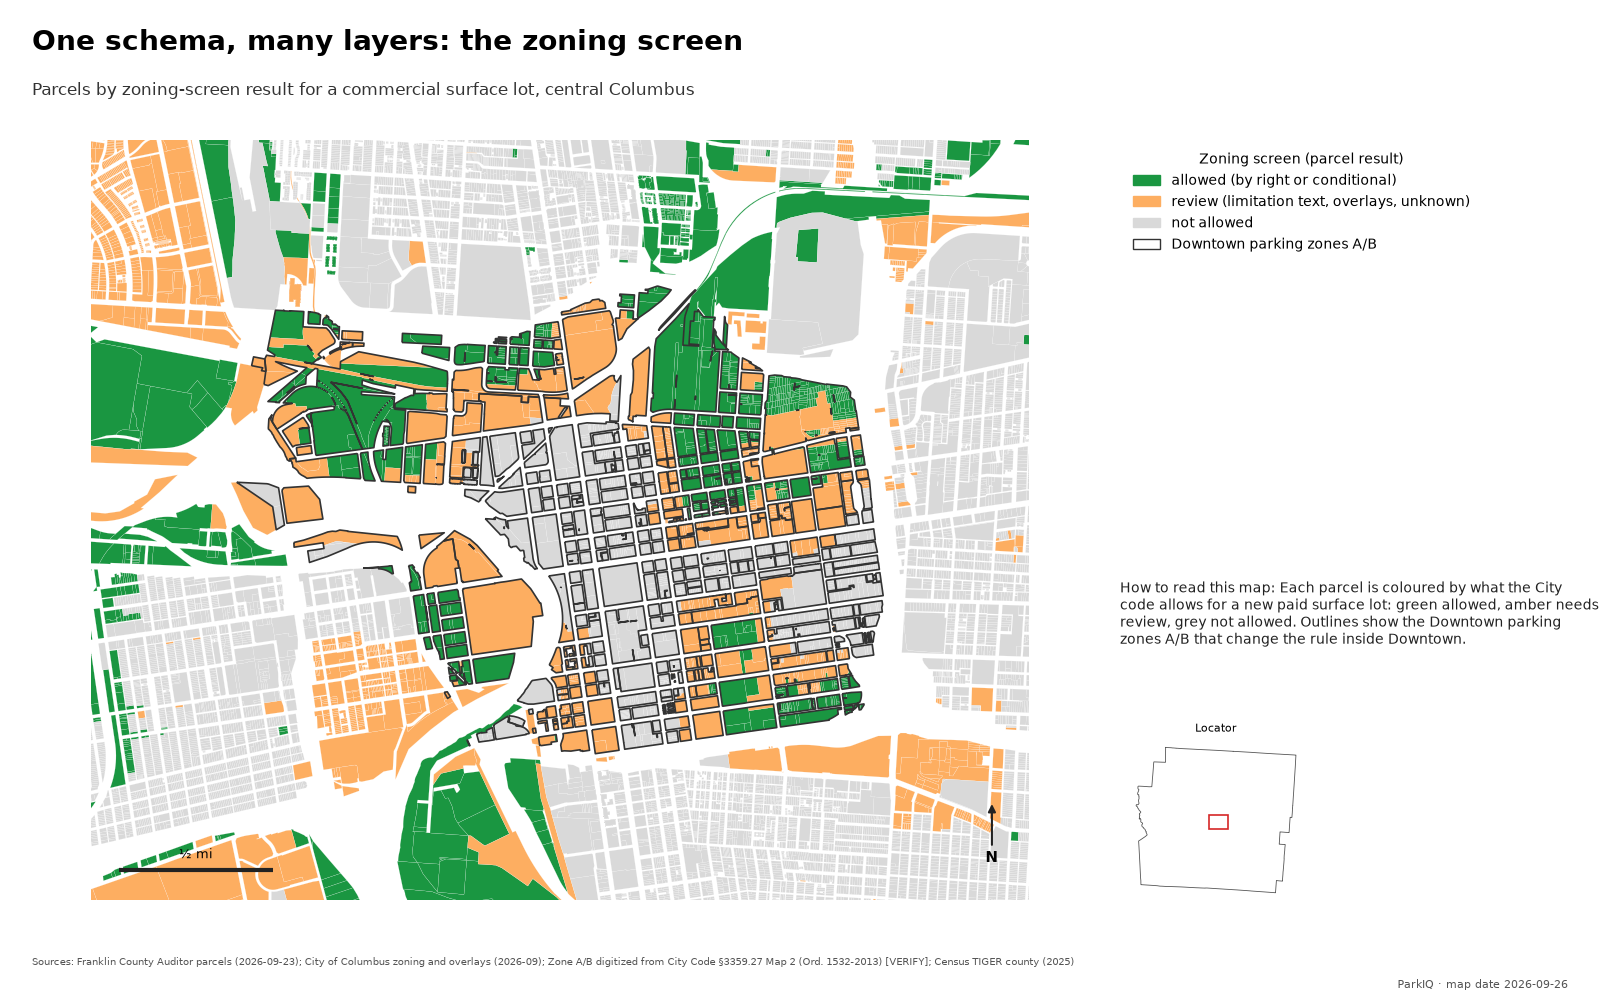
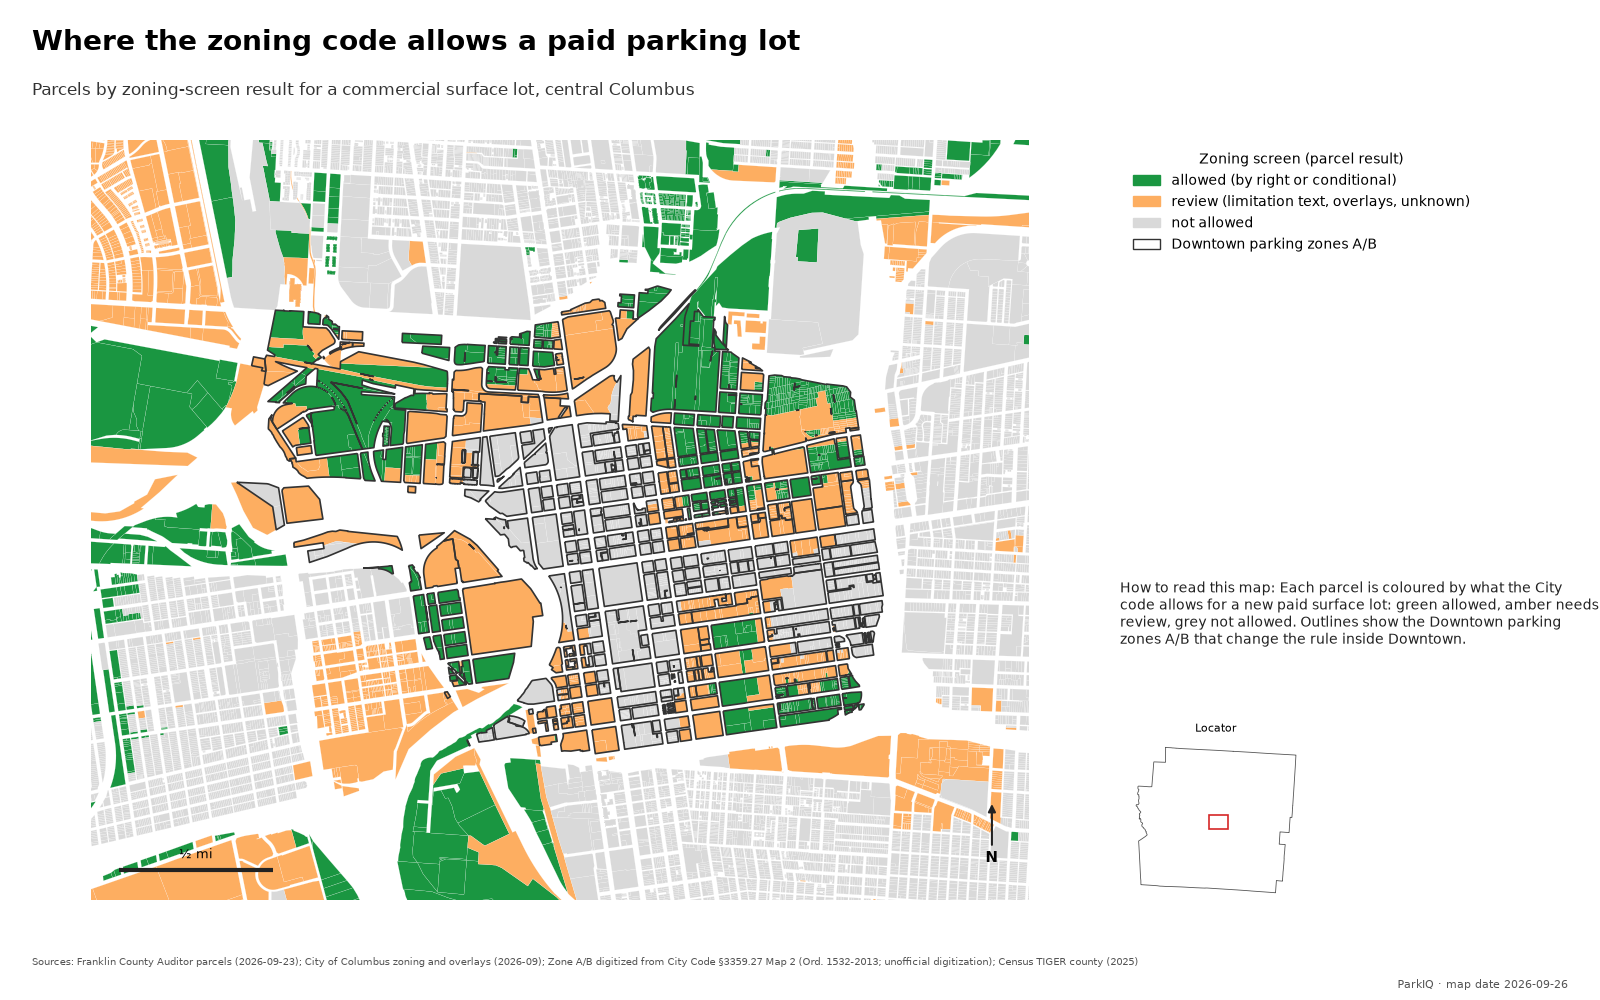
Card structure checks (one sentence, 160 characters, 3 unique links); zoning figure title and source note

Changed region(s): [[0.0, 0.031, 0.5, 0.062]]

diff --git a/scripts/check_text.py b/scripts/check_text.py
@@ -47,6 +47,29 @@ def parkiq_cards(html: str) -> list[str]:
     return [a for a in arts if "parkiq" in a.lower()]
 
 
+MAX_DESC = 160  # characters: three to four lines at card width
+MAX_LINKS = 3
+
+
+def card_links(card: str) -> list[str]:
+    """Hrefs of a card's link buttons (gallery images are not links)."""
+    return re.findall(r'<a class="card-link" href="([^"]+)"', card)
+
+
+def card_structure(name: str, card: str) -> list[str]:
+    """ParkIQ card rules: one sentence of at most 160 characters, at most three live links."""
+    out = []
+    m = re.search(r'<p class="card-desc">(.*?)</p>', card, flags=re.S)
+    desc = re.sub(r"<[^>]+>", "", m.group(1)).strip() if m else ""
+    if len(desc) > MAX_DESC:
+        out.append(f"ndeogo card '{name}': description {len(desc)} > {MAX_DESC} characters")
+    if len(re.findall(r"[.!?](?=\s+[A-Z])", desc)) > 0:
+        out.append(f"ndeogo card '{name}': description is more than one sentence")
+    if len(card_links(card)) > MAX_LINKS:
+        out.append(f"ndeogo card '{name}': {len(card_links(card))} links > {MAX_LINKS}")
+    return out
+
+
 def site_violations(site: Path) -> list[str]:
     """ParkIQ cards: no em dash, no 'coming soon'; ParkIQ report PDFs: no em dash."""
     out = []
@@ -59,6 +82,10 @@ def site_violations(site: Path) -> list[str]:
                 out.append(f"ndeogo card '{name}': em dash")
             if "coming soon" in card.lower():
                 out.append(f"ndeogo card '{name}': 'coming soon' item")
+            out += card_structure(name, card)
+        hrefs = [h for c in parkiq_cards(idx.read_text(encoding="utf-8")) for h in card_links(c)]
+        dup = sorted({h for h in hrefs if hrefs.count(h) > 1})
+        out += [f"ndeogo ParkIQ cards share a link: {h}" for h in dup]
     for pdf in sorted((site / "documentation").glob("parkiq-*.pdf")):
         import pypdf
 

diff --git a/docs/portfolio/make_figures.py b/docs/portfolio/make_figures.py
@@ -32,7 +32,7 @@ def main(run: Path) -> None:
     p = pyogrio.read_dataframe(g, layer="Parcels", columns=["zoning_status"], bbox=view)
     zones = pyogrio.read_dataframe(g, layer="ParkingZones")
     spec = MapSpec(
-        title="One schema, many layers: the zoning screen",
+        title="Where the zoning code allows a paid parking lot",
         subtitle="Parcels by zoning-screen result for a commercial surface lot, central Columbus",
         how_to_read=(
             "Each parcel is coloured by what the City code allows for a new paid surface "
@@ -42,7 +42,7 @@ def main(run: Path) -> None:
         sources=[
             "Franklin County Auditor parcels (2026-09-23)",
             "City of Columbus zoning and overlays (2026-09)",
-            "Zone A/B digitized from City Code §3359.27 Map 2 (Ord. 1532-2013) [VERIFY]",
+            "Zone A/B digitized from City Code §3359.27 Map 2 (Ord. 1532-2013; unofficial digitization)",
             "Census TIGER county (2025)",
         ],
         uses_osm=False,

diff --git a/tests/test_text_rules.py b/tests/test_text_rules.py
@@ -27,3 +27,15 @@ def test_site_rules_flag_parkiq_cards_only(tmp_path: Path) -> None:
     (tmp_path / "index.html").write_text(html, encoding="utf-8")
     out = check_text.site_violations(tmp_path)
     assert out == ["ndeogo card 'ParkIQ A': em dash", "ndeogo card 'ParkIQ A': 'coming soon' item"]
+
+
+def test_card_structure_rules() -> None:
+    long = "A" * 161
+    card = f'<p class="card-desc">{long}</p>' + '<a class="card-link" href="x1">a</a>' * 4
+    out = check_text.card_structure("C", card)
+    assert any("161 > 160" in o for o in out) and any("4 links" in o for o in out)
+    two = '<p class="card-desc">First sentence here. Second one.</p>'
+    assert any("more than one sentence" in o for o in check_text.card_structure("C", two))
+    ok = '<p class="card-desc">ParkIQ · Franklin County, OH</p>'
+    ok += '<a class="card-link" href="g">GitHub</a>'
+    assert check_text.card_structure("C", ok) == []
